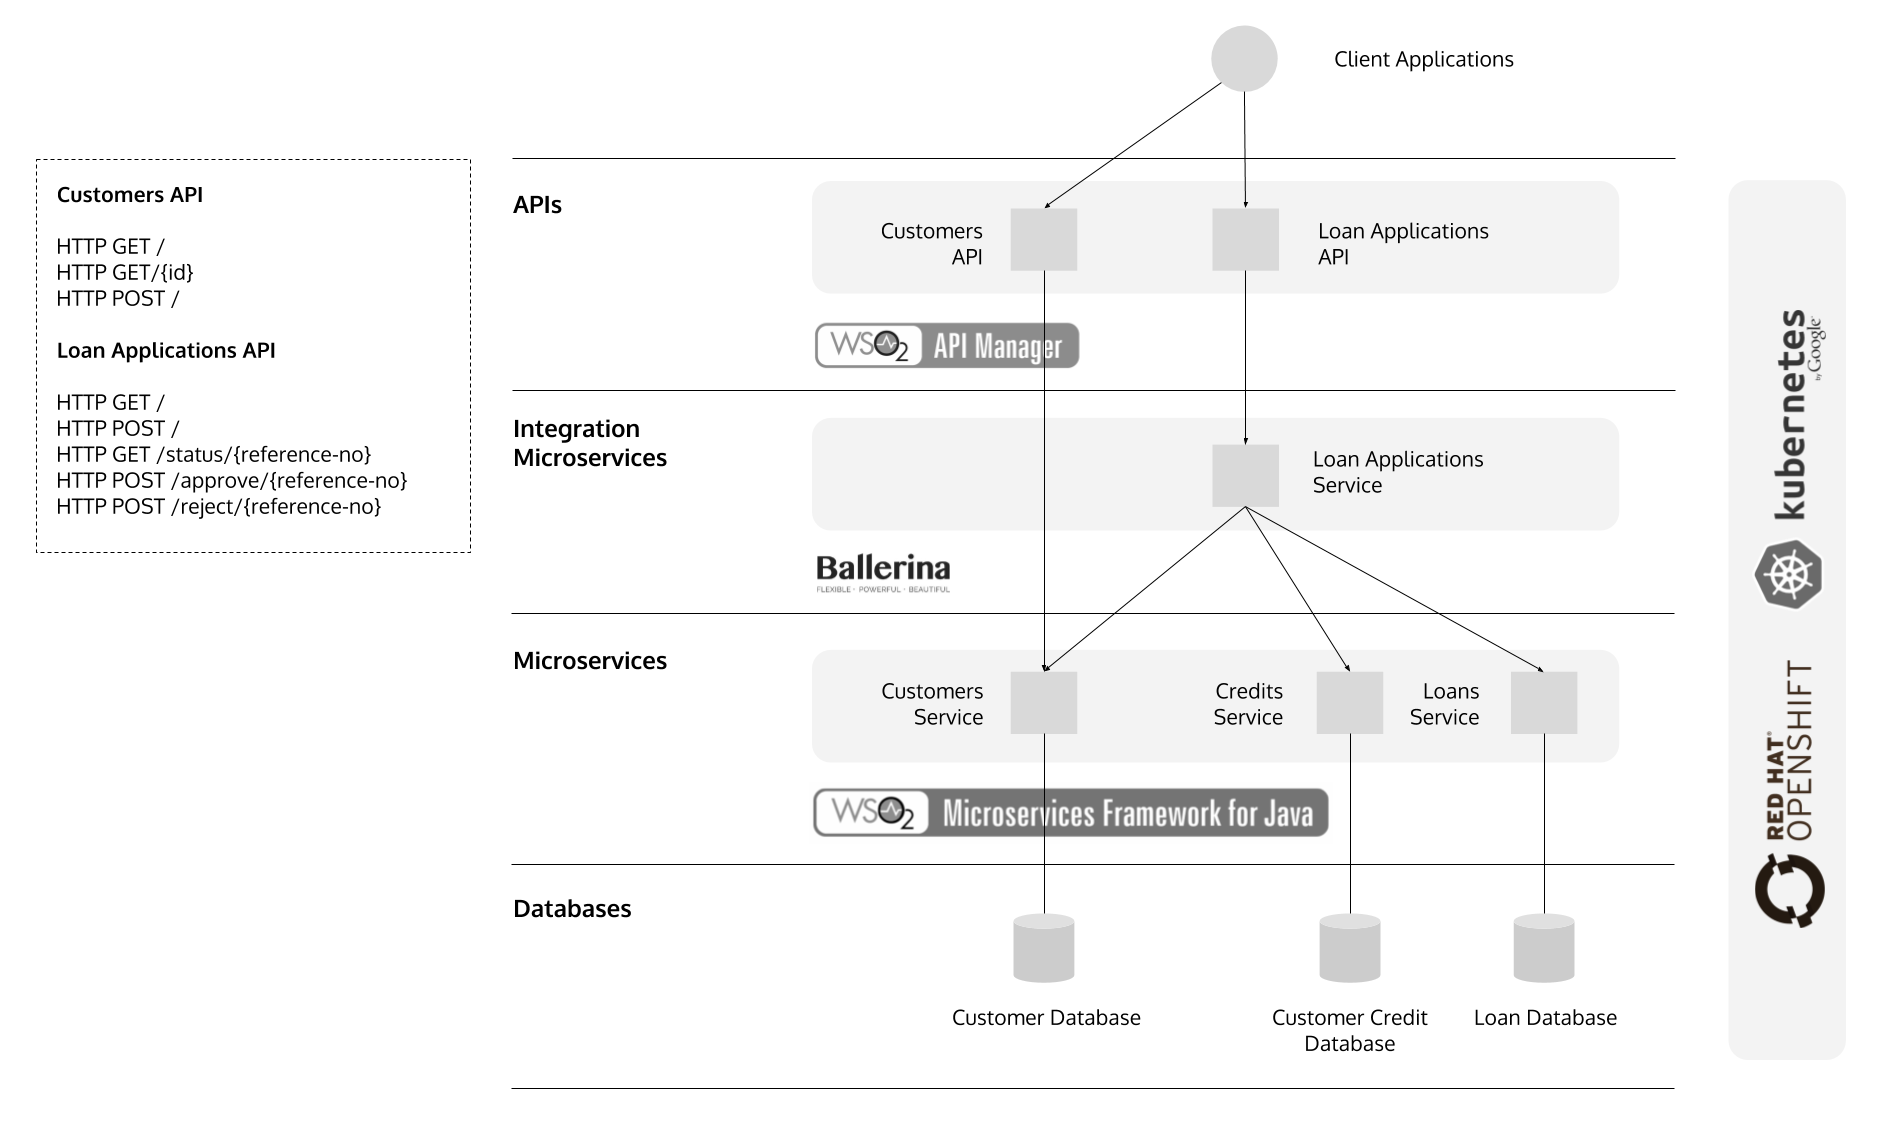
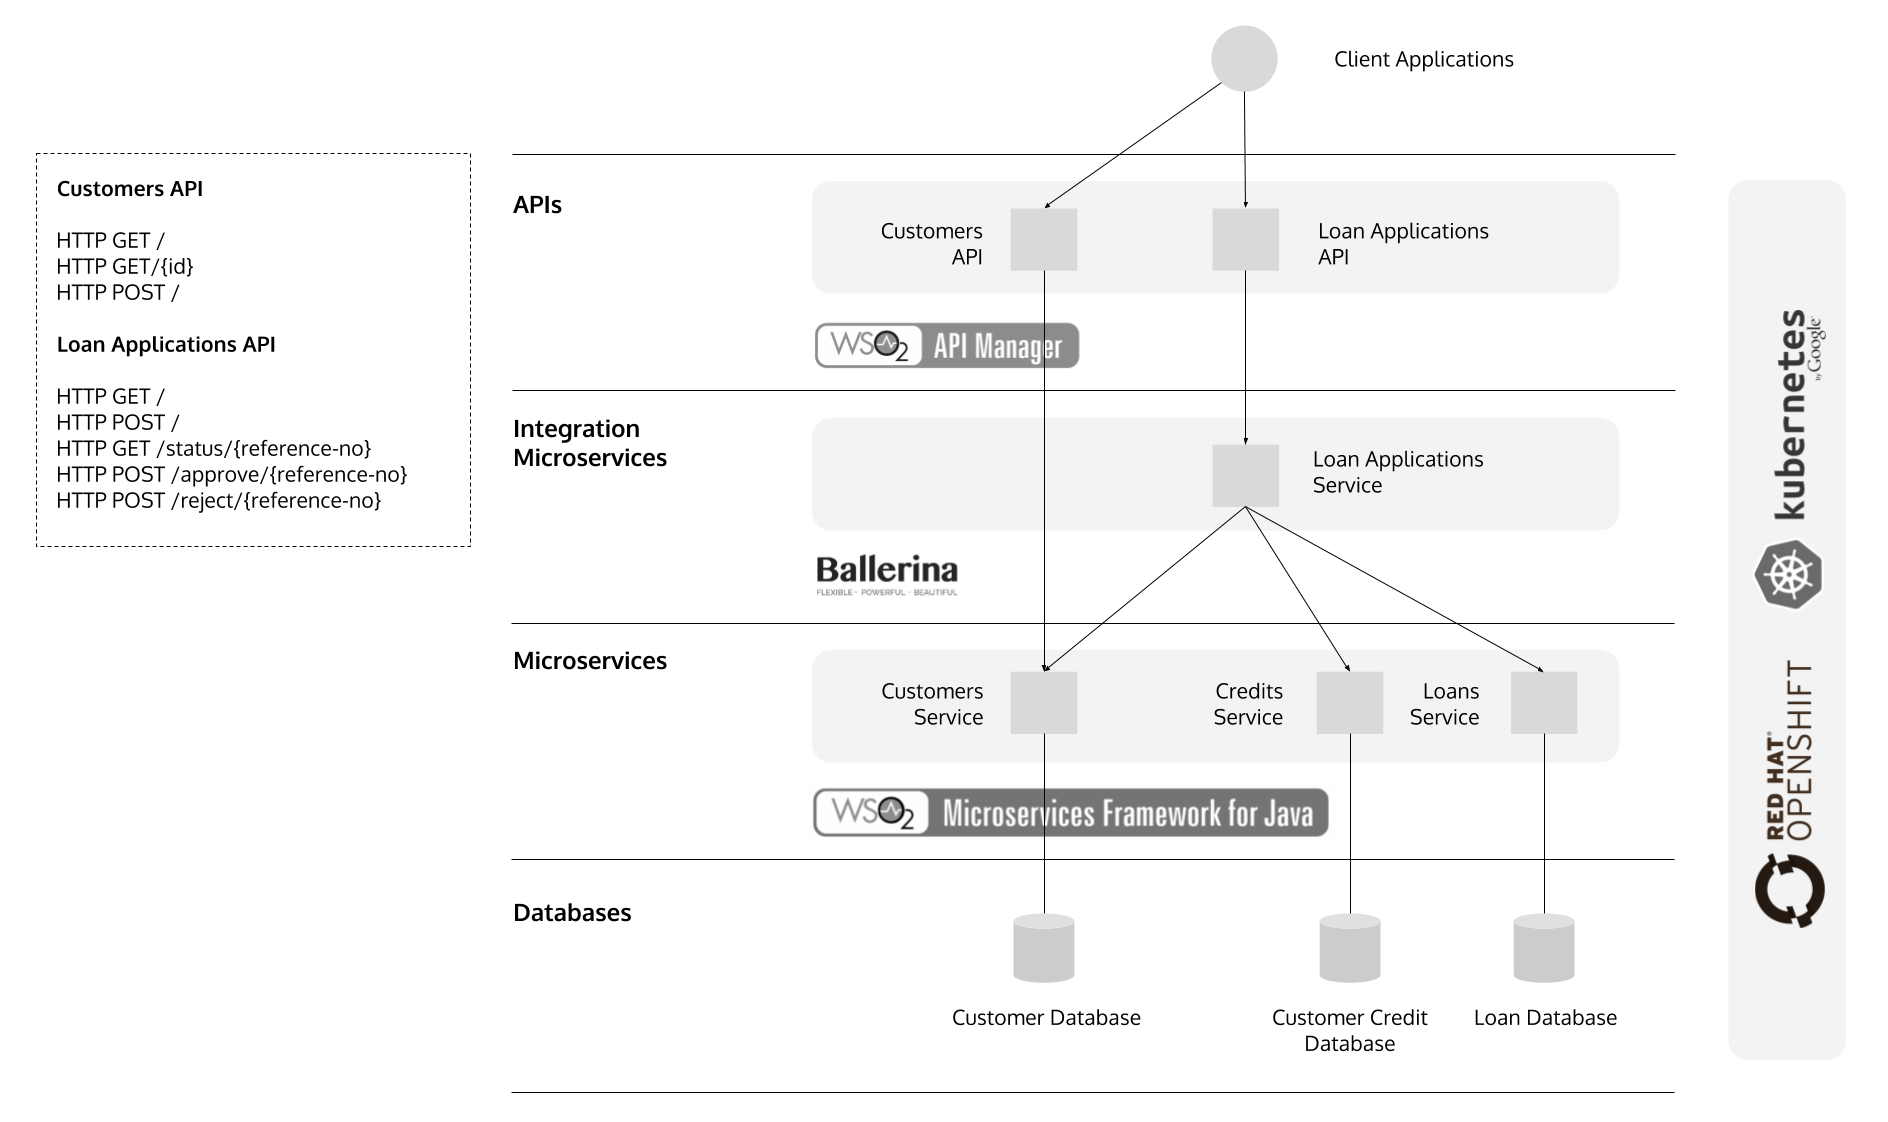
Move solution architecture diagram to the top

Changed region(s): [[0.0312, 0.156, 0.2188, 0.4679], [0.4375, 0.4991, 0.5312, 0.5303], [0.2812, 0.7799, 0.3438, 0.8422]]

diff --git a/README.md b/README.md
@@ -1,6 +1,15 @@
 # WSO2 Microservices POC
 
-This repository contains a POC implemented for demonstrating following features:
+This repository contains a POC implemented with WSO2 Microservices Framework for Java (MSF4J), Ballerina and 
+WSO2 API Manager on demonstrating how an enterprise solution can be developed according to 
+[Microservices](https://martinfowler.com/articles/microservices.html) Architecture.
+
+## Solution Architecture
+
+The following diagram illustrates the solution architecture of this POC:
+![](images/solution-architecture.png)
+
+## Features
 
 - Implementing microservices in WSO2 MSF4J microservices framework.
 - The process of building Docker images for microservices.
@@ -10,11 +19,6 @@ This repository contains a POC implemented for demonstrating following features:
 - Wiring database connections, integrations between microservices and integration services.
 - Exposing microservices and integration services via WSO2 API Manager.
 - Deploying microservices, integration services and WSO2 API Manager on OpenShift.
-
-## Solution Architecture
-
-The following diagram illustrates the solution architecture of this POC:
-![](images/solution-architecture.png)
 
 ## Getting Started
 
